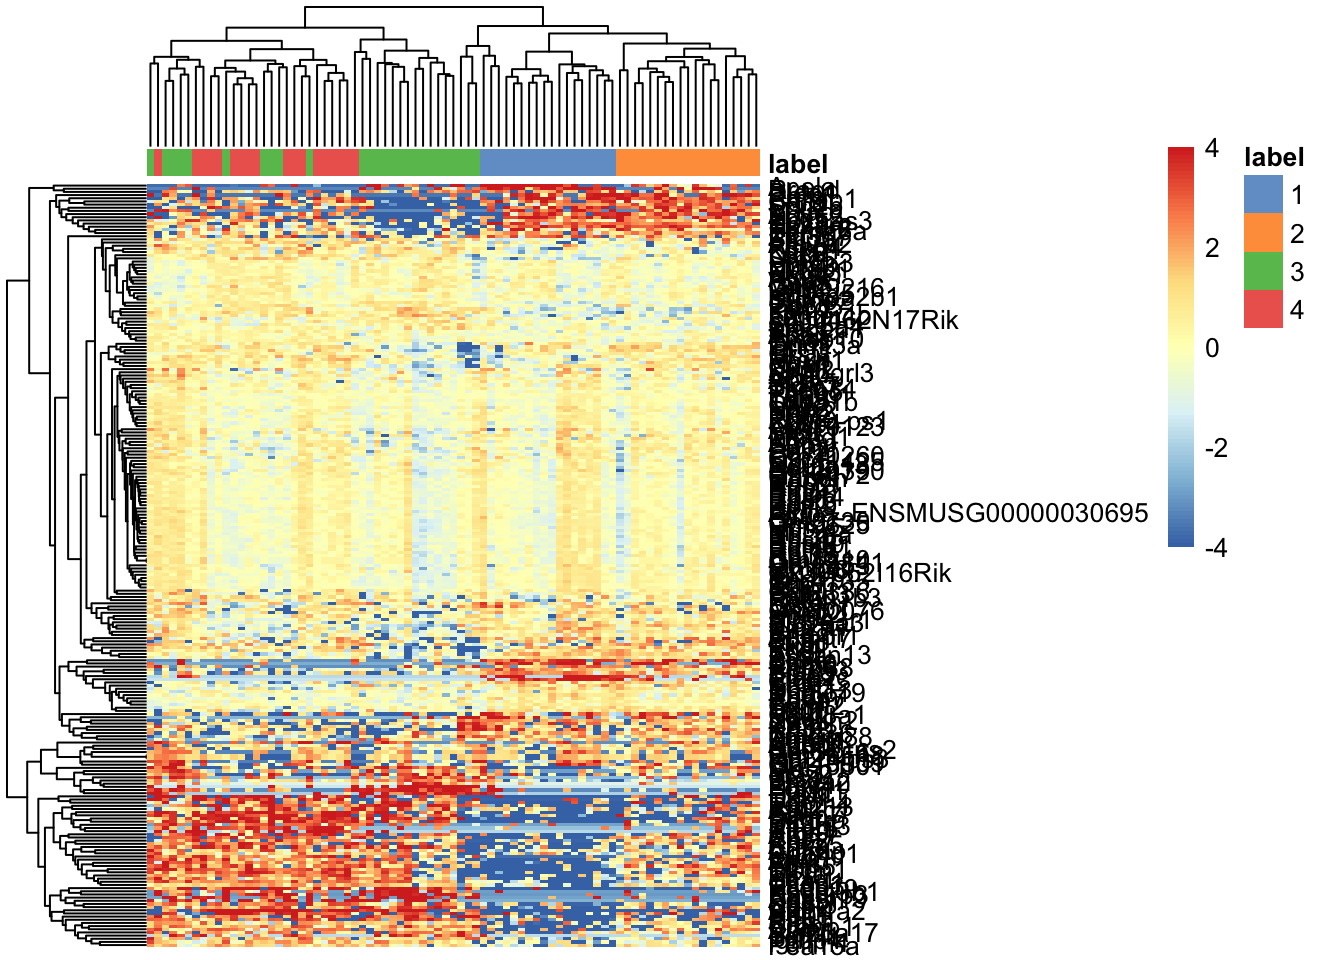
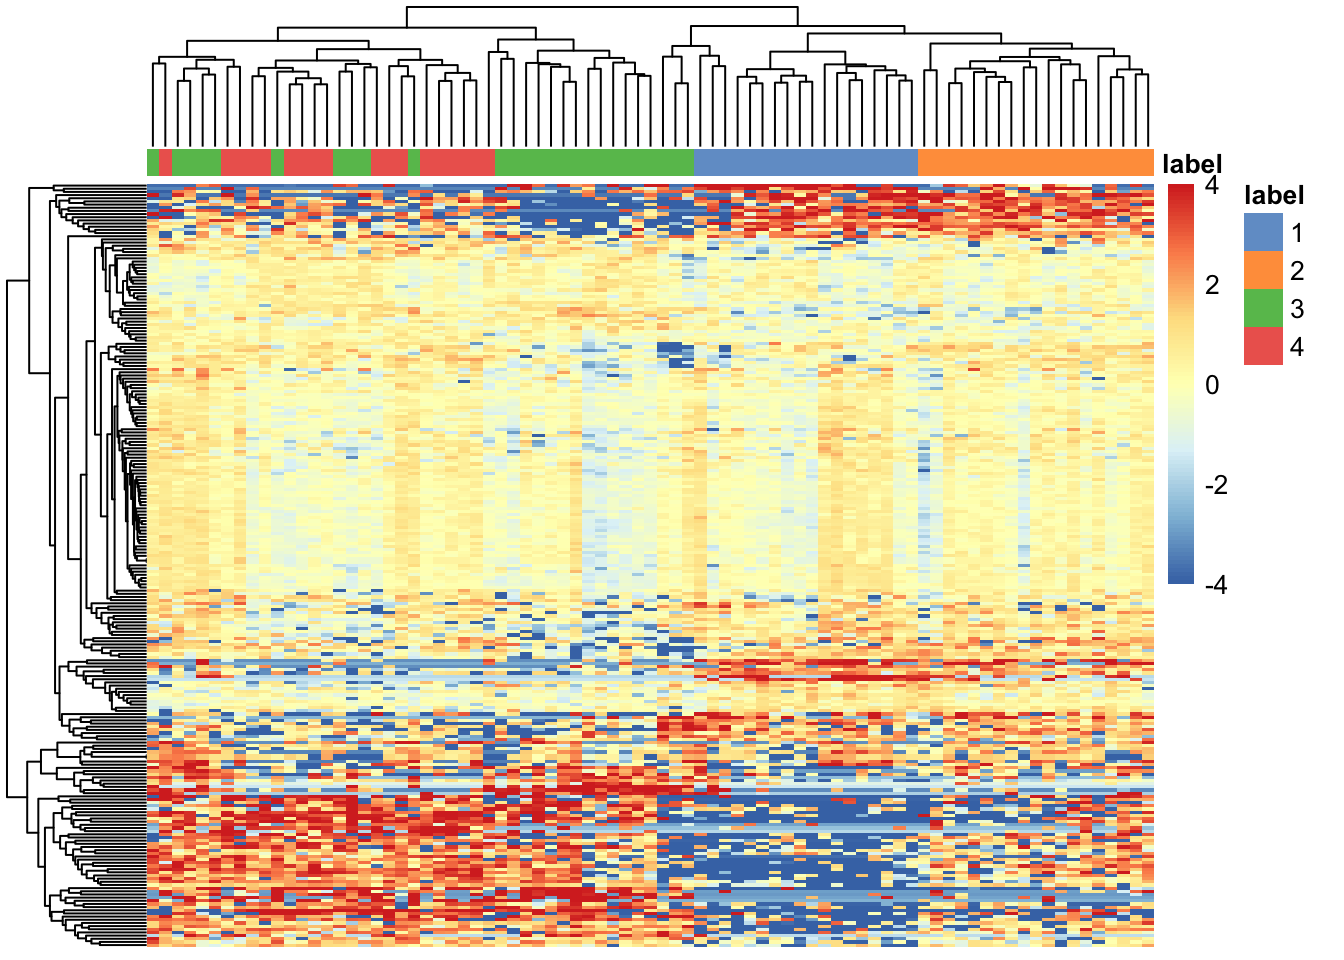
Build

diff --git a/docs/secondary-analysis.html b/docs/secondary-analysis.html
@@ -589,16 +589,16 @@ This reproducible <a href="http://rmarkdown.rstudio.com">R Markdown</a> analysis
 <div class="panel panel-default">
 <div class="panel-heading">
 <p class="panel-title">
-<a data-toggle="collapse" data-parent="#workflowr-checks" href="#strongRepositoryversionstrongahrefhttpsgithubcomjma1991LPMPEHFBtree925916d291ad485bb4f21551c757fdfbd07ab02ctargetblank925916da"> <span class="glyphicon glyphicon-ok text-success" aria-hidden="true"></span> <strong>Repository version:</strong> <a href="https://github.com/jma1991/LPMP_EHF_B/tree/925916d291ad485bb4f21551c757fdfbd07ab02c" target="_blank">925916d</a> </a>
+<a data-toggle="collapse" data-parent="#workflowr-checks" href="#strongRepositoryversionstrongahrefhttpsgithubcomjma1991LPMPEHFBtreea8ef7458ab365a0695de3f03a7c30df186c1763btargetblanka8ef745a"> <span class="glyphicon glyphicon-ok text-success" aria-hidden="true"></span> <strong>Repository version:</strong> <a href="https://github.com/jma1991/LPMP_EHF_B/tree/a8ef7458ab365a0695de3f03a7c30df186c1763b" target="_blank">a8ef745</a> </a>
 </p>
 </div>
[2 lines of base64/hex data omitted]
 <div class="panel-body">
 <p>
 Great! You are using Git for version control. Tracking code development and connecting the code version to the results is critical for reproducibility.
 </p>
 <p>
-The results in this page were generated with repository version <a href="https://github.com/jma1991/LPMP_EHF_B/tree/925916d291ad485bb4f21551c757fdfbd07ab02c" target="_blank">925916d</a>. See the <em>Past versions</em> tab to see a history of the changes made to the R Markdown and HTML files.
+The results in this page were generated with repository version <a href="https://github.com/jma1991/LPMP_EHF_B/tree/a8ef7458ab365a0695de3f03a7c30df186c1763b" target="_blank">a8ef745</a>. See the <em>Past versions</em> tab to see a history of the changes made to the R Markdown and HTML files.
 </p>
 <p>
 Note that you need to be careful to ensure that all relevant files for the analysis have been committed to Git prior to generating the results (you can use <code>wflow_publish</code> or <code>wflow_git_commit</code>). workflowr only checks the R Markdown file, but you know if there are other scripts or data files that it depends on. Below is the status of the Git repository when the results were generated:
@@ -668,6 +668,40 @@ Message
 </tr>
 </thead>
 <tbody>
+<tr>
+<td>
+Rmd
+</td>
+<td>
+<a href="https://github.com/jma1991/LPMP_EHF_B/blob/a8ef7458ab365a0695de3f03a7c30df186c1763b/analysis/secondary-analysis.Rmd" target="_blank">a8ef745</a>
+</td>
+<td>
+James Ashmore
+</td>
+<td>
+2021-03-30
+</td>
+<td>
+Build
+</td>
+</tr>
+<tr>
+<td>
+html
+</td>
+<td>
+<a href="https://rawcdn.githack.com/jma1991/LPMP_EHF_B/19559efc553f00a3bf26ccb1b9197117b7045e55/docs/secondary-analysis.html" target="_blank">19559ef</a>
+</td>
+<td>
+James Ashmore
+</td>
+<td>
+2021-03-30
+</td>
+<td>
+Build
+</td>
+</tr>
 <tr>
 <td>
 Rmd
@@ -1199,7 +1233,7 @@ res &lt;- correlatePairs(
 )</code></pre>
 <p>Subset by significance threshold:</p>
 <pre class="r"><code>sig &lt;- subset(res, FDR &lt; 0.05)</code></pre>
-<p>Plot heatmap of correlated marker genes:</p>
+<p>Plot heatmap of correlated genes:</p>
 <pre class="r"><code>plotHeatmap(
   object = sce,
   features = unique(sig$gene2),
@@ -1404,7 +1438,8 @@ James Ashmore
   center = TRUE,
   zlim = c(-4, +4),
   symmetric = TRUE,
-  colour_columns_by = &quot;label&quot;
+  colour_columns_by = &quot;label&quot;,
+  show_rownames = FALSE
 )</code></pre>
 <p><img src="figure/secondary-analysis.Rmd/unnamed-chunk-19-1.png" width="672" style="display: block; margin: auto;" /></p>
 <p>
@@ -1429,6 +1464,17 @@ Date
 </tr>
 </thead>
 <tbody>
+<tr>
+<td>
+<a href="https://github.com/jma1991/LPMP_EHF_B/blob/451e2f3619bf9cb67c347803088e72eddd087717/docs/figure/secondary-analysis.Rmd/unnamed-chunk-19-1.png" target="_blank">451e2f3</a>
+</td>
+<td>
+James Ashmore
+</td>
+<td>
+2021-03-30
+</td>
+</tr>
 <tr>
 <td>
 <a href="https://github.com/jma1991/LPMP_EHF_B/blob/2ec8936faa46f565c149c3619e36c7364a5d42a7/docs/figure/secondary-analysis.Rmd/unnamed-chunk-19-1.png" target="_blank">2ec8936</a>

diff --git a/docs/index.html b/docs/index.html
@@ -441,16 +441,16 @@ This reproducible <a href="http://rmarkdown.rstudio.com">R Markdown</a> analysis
 <div class="panel panel-default">
 <div class="panel-heading">
 <p class="panel-title">
-<a data-toggle="collapse" data-parent="#workflowr-checks" href="#strongRepositoryversionstrongahrefhttpsgithubcomjma1991LPMPEHFBtree925916d291ad485bb4f21551c757fdfbd07ab02ctargetblank925916da"> <span class="glyphicon glyphicon-ok text-success" aria-hidden="true"></span> <strong>Repository version:</strong> <a href="https://github.com/jma1991/LPMP_EHF_B/tree/925916d291ad485bb4f21551c757fdfbd07ab02c" target="_blank">925916d</a> </a>
+<a data-toggle="collapse" data-parent="#workflowr-checks" href="#strongRepositoryversionstrongahrefhttpsgithubcomjma1991LPMPEHFBtreea8ef7458ab365a0695de3f03a7c30df186c1763btargetblanka8ef745a"> <span class="glyphicon glyphicon-ok text-success" aria-hidden="true"></span> <strong>Repository version:</strong> <a href="https://github.com/jma1991/LPMP_EHF_B/tree/a8ef7458ab365a0695de3f03a7c30df186c1763b" target="_blank">a8ef745</a> </a>
 </p>
 </div>
[2 lines of base64/hex data omitted]
 <div class="panel-body">
 <p>
 Great! You are using Git for version control. Tracking code development and connecting the code version to the results is critical for reproducibility.
 </p>
 <p>
-The results in this page were generated with repository version <a href="https://github.com/jma1991/LPMP_EHF_B/tree/925916d291ad485bb4f21551c757fdfbd07ab02c" target="_blank">925916d</a>. See the <em>Past versions</em> tab to see a history of the changes made to the R Markdown and HTML files.
+The results in this page were generated with repository version <a href="https://github.com/jma1991/LPMP_EHF_B/tree/a8ef7458ab365a0695de3f03a7c30df186c1763b" target="_blank">a8ef745</a>. See the <em>Past versions</em> tab to see a history of the changes made to the R Markdown and HTML files.
 </p>
 <p>
 Note that you need to be careful to ensure that all relevant files for the analysis have been committed to Git prior to generating the results (you can use <code>wflow_publish</code> or <code>wflow_git_commit</code>). workflowr only checks the R Markdown file, but you know if there are other scripts or data files that it depends on. Below is the status of the Git repository when the results were generated:
@@ -520,6 +520,23 @@ Message
 </tr>
 </thead>
 <tbody>
+<tr>
+<td>
+html
+</td>
+<td>
+<a href="https://rawcdn.githack.com/jma1991/LPMP_EHF_B/19559efc553f00a3bf26ccb1b9197117b7045e55/docs/index.html" target="_blank">19559ef</a>
+</td>
+<td>
+James Ashmore
+</td>
+<td>
+2021-03-30
+</td>
+<td>
+Build
+</td>
+</tr>
 <tr>
 <td>
 html
